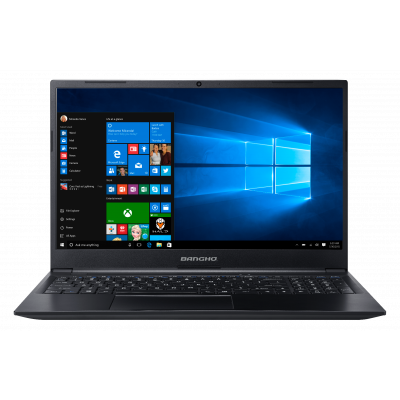
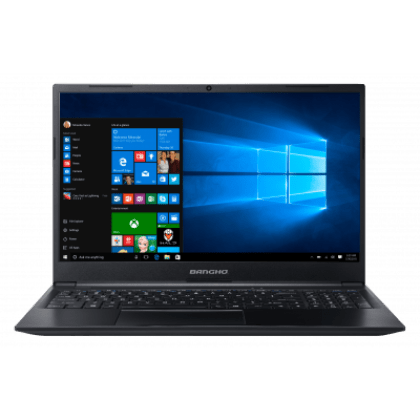
ajuste las resoluciones de las imagenes, me falta la parte de las notebooks

diff --git a/public/css/styles.css b/public/css/styles.css
@@ -431,9 +431,9 @@ footer h4{
 }
 
 .contenedor-articulos-principales{
-    
     display: flex;
     flex-wrap: wrap;
+    justify-content: center;
 }
 
 .contenedor-producto-imagen-descripcion{
@@ -799,6 +799,10 @@ a.btnEndAdd{
     .contenedor-boton-para-enviar button{
         width: 18%;
     }
+
+    .foto-principal-producto{
+        width: 35%;
+    }
     
  }  
 
@@ -808,5 +812,16 @@ a.btnEndAdd{
         grid-template-columns: 5% 5% 5% 5% 5%;
         grid-template-rows: 100px;
     }
+
+    .foto-principal-producto{
+        width: 25%;
+    }
+
+    .boton-comprar button{
+        width: 45%;
+    }
+
+    
+
 
 } 
